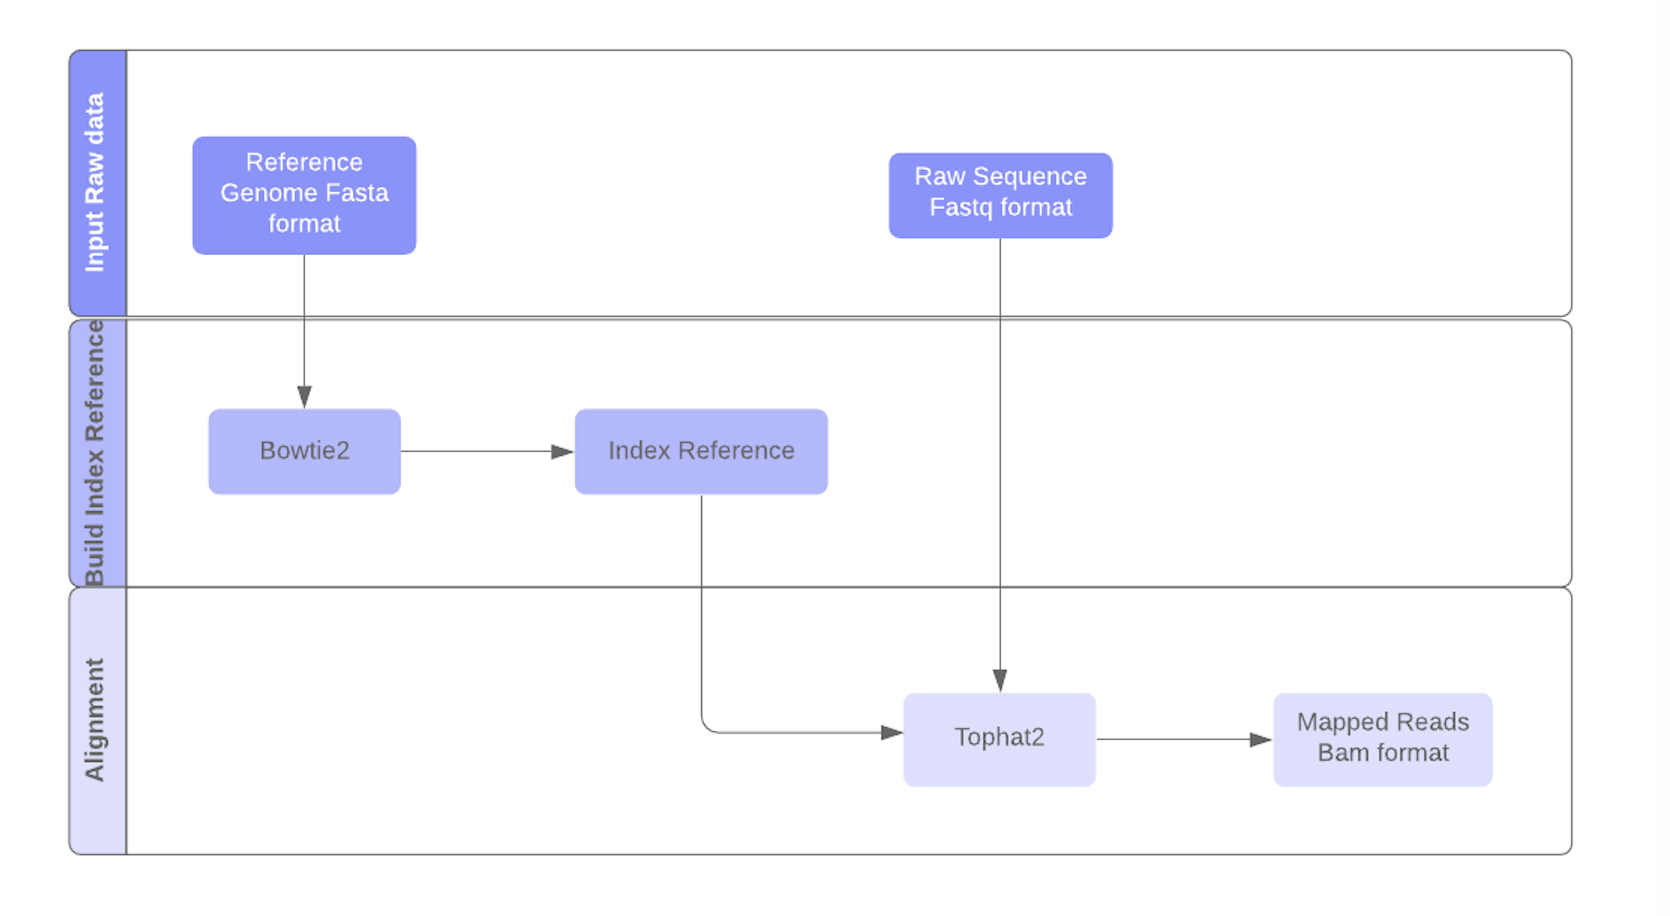
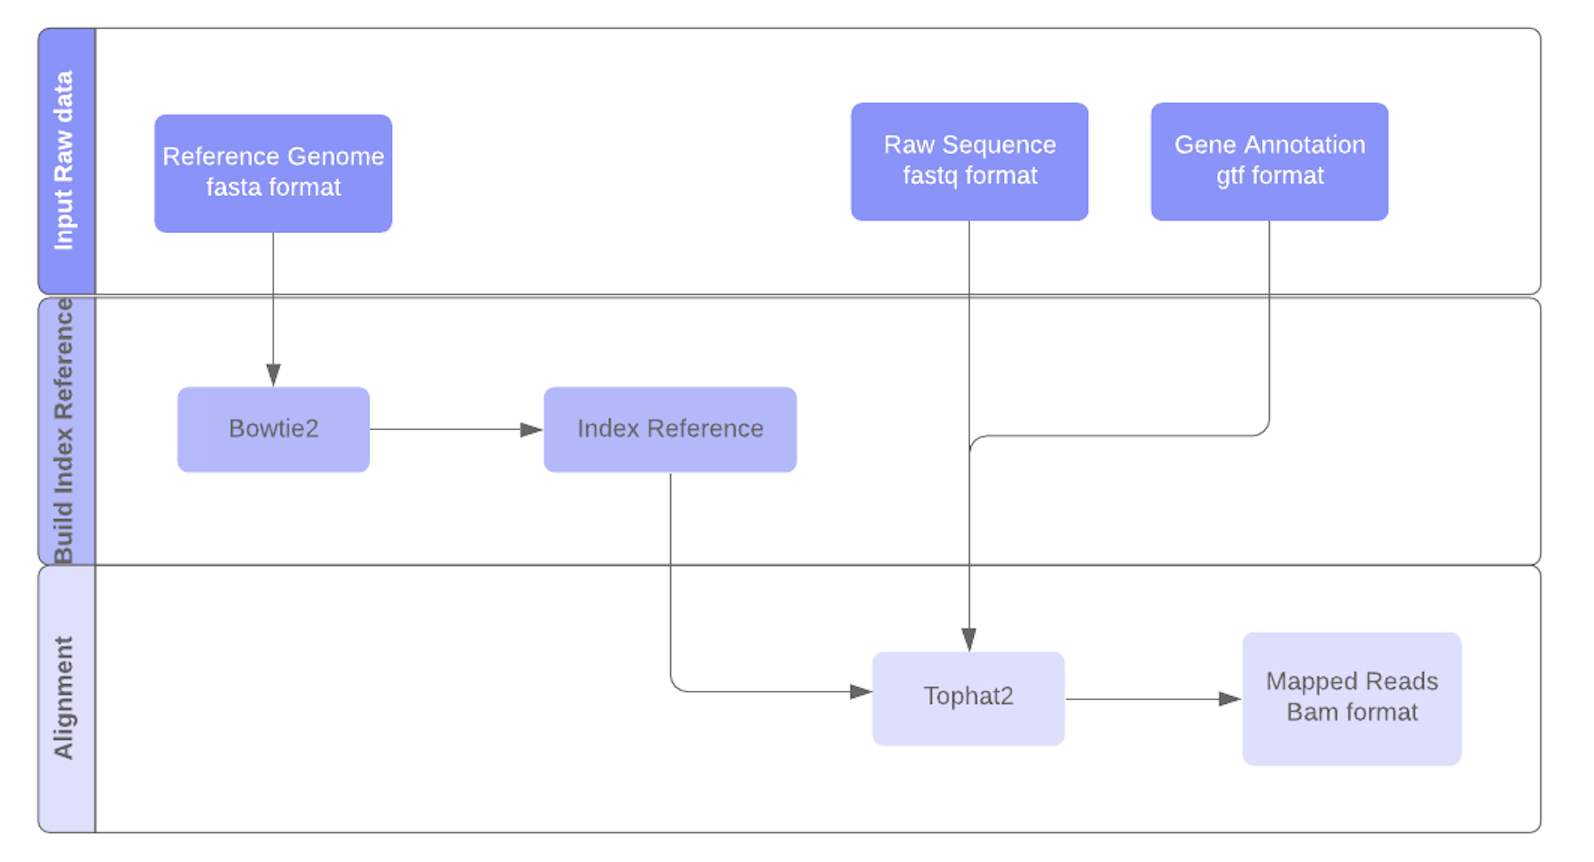
add rnaseq image

Changed region(s): [[0.0, 0.0302, 0.9837, 0.9652], [0.3689, 0.4223, 0.4918, 0.4524]]

diff --git a/Docker_Containers/Bioinformatics_Workflows/RNASeq/Readme.md b/Docker_Containers/Bioinformatics_Workflows/RNASeq/Readme.md
@@ -3,7 +3,7 @@ This folder contains details to enable RNASeq workflow on private machines using
 # RNASeq-Workflow
 Below figure shows the pipeline of the workflow:
 
-![](Images/rnaseq_wf.PNG)
+![](Images/rnaseq_wf.png)
 
 
 RNA-Seq analysis workflow is used to perform quantification of gene expression from RNA-Seq transcriptomics data and statistical analysis to discover differential expressed genes/isoform between various experimental groups conditions. The paired-end or single-end reads are aligned to the reference genome via Tophat2. The mapped reads are summarized and aggregated over genes and isoforms for a particular organism’s gene and genome version to then calculate the gene expression FPKMs values via Cufflinks. Then, the transcriptome assembly generated from Cufflinks will be processed via Cuffcompare to perform these comparisons and assess the quality of assembly. Finally, genes and isoforms expressed differentially between the various pair wise comparisons within experimental groups/conditions are identified using Cuffdiff.
